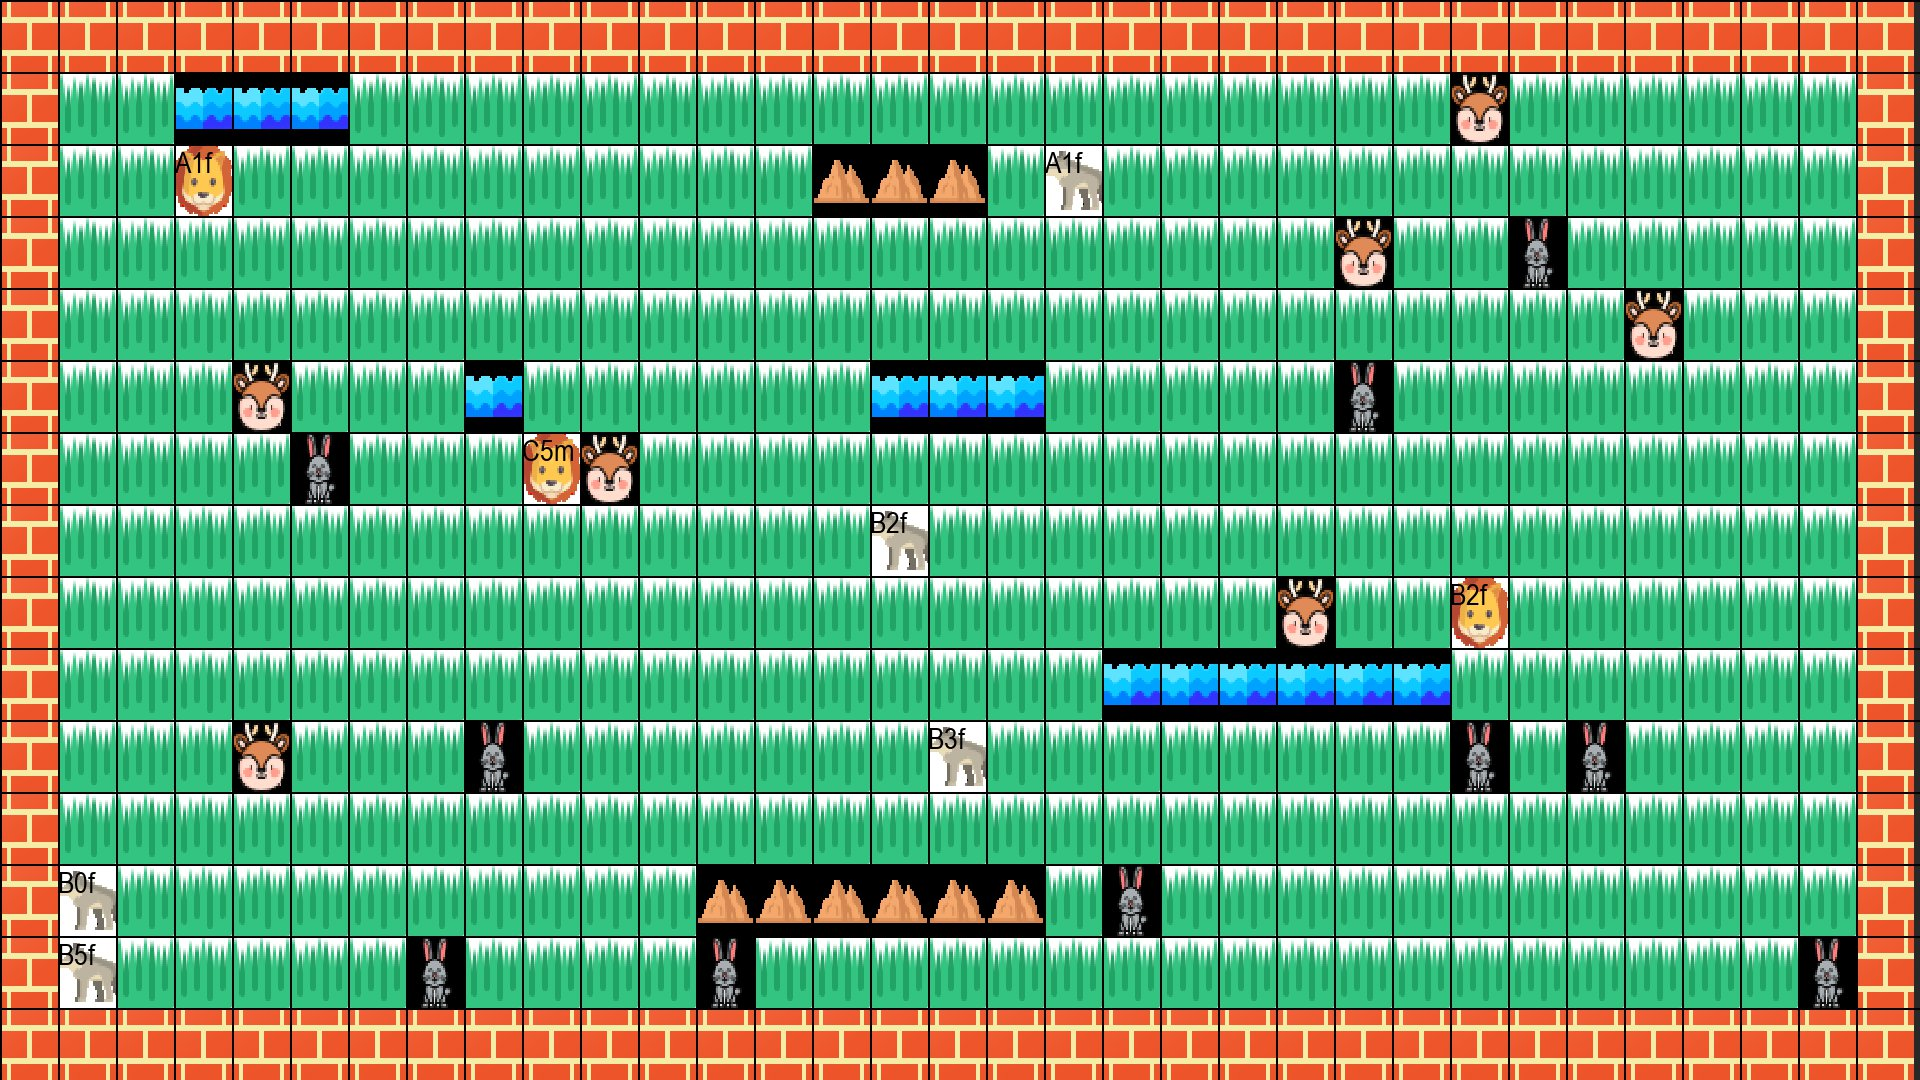
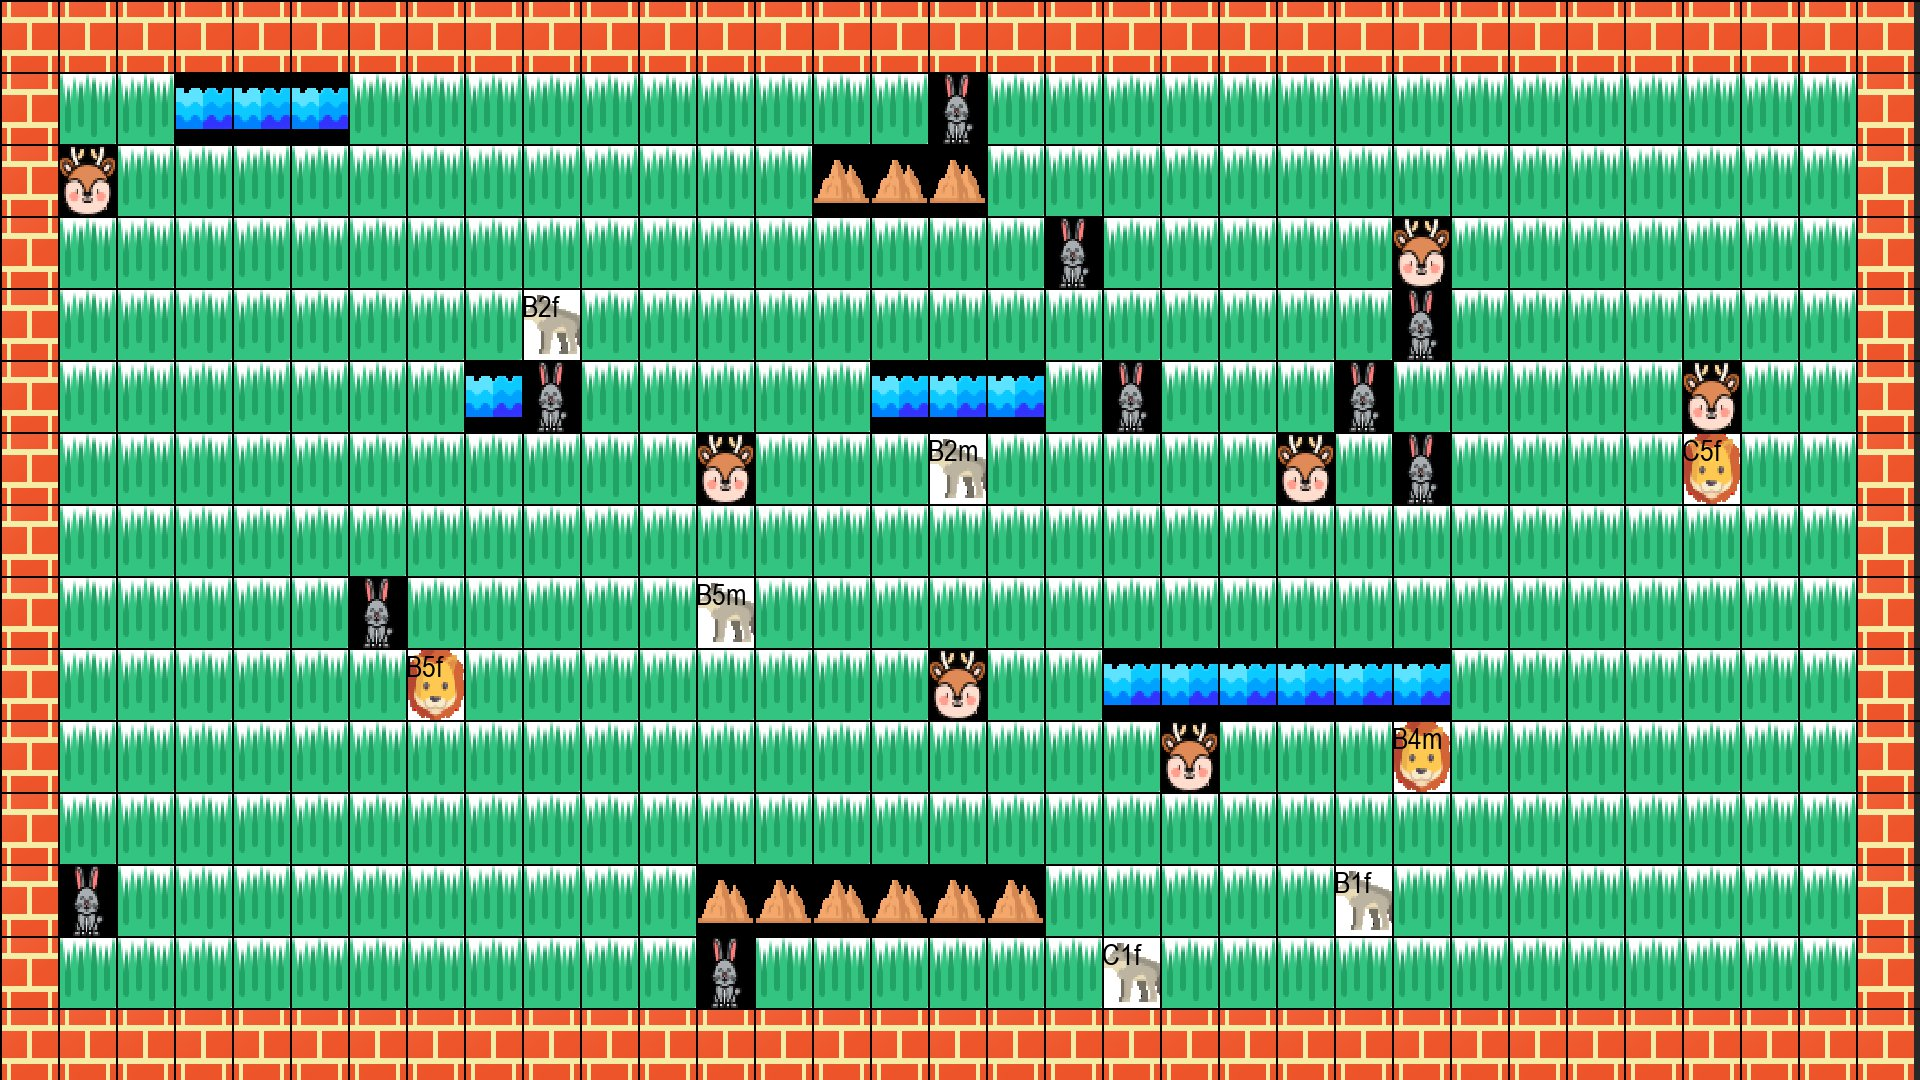
fixed bug for lion

diff --git a/main.py b/main.py
@@ -1,4 +1,5 @@
 from xml.sax.handler import property_declaration_handler
+from numpy import False_
 import pygame 
 import sys
 import random
@@ -163,7 +164,7 @@ class Game:
     def run(self):
         self.playing = True
         while self.playing:
-            self.dt = self.clock.tick(FPS)
+            self.dt = self.clock.tick(FPS/1.2)
             self.events()
             self.update()
             self.draw()
@@ -197,10 +198,14 @@ class Game:
             pos = pygame.math.Vector2(wolf.x, wolf.y)
             wolf_offspring = pygame.sprite.Sprite()
 
-            #always to try to run away from Lions
+            #runaway from lions are close by
             if self.lion_group:
                 predator_lion = min([e for e in self.lion_group], key=lambda e: pos.distance_to(pygame.math.Vector2(e.x, e.y)))
-            run_away(wolf,predator_lion)
+
+                wolf_neighbors = wolf.get_neighbors()
+                for i in wolf_neighbors:
+                    if i == (predator_lion.x,predator_lion.y):
+                        run_away(wolf,predator_lion)
             
             #if wolves are hungry
             if wolf.hunger_limit <=0:
@@ -246,8 +251,12 @@ class Game:
                     partner = min([e for e in self.wolf_group if e is not wolf and e.gender =='m'], key=lambda e: pos.distance_to(pygame.math.Vector2(e.x, e.y)))
             except ValueError:
                 print("Not enough WOLF Female/male partners")
+            
+            lion.breedingCooldown -= 10
+            if lion.breedingCooldown <=0:
+                lion.can_breed = True
 
-            if wolf.reproduction_level >=50 and wolf.can_breed ==True and wolf.mated == False: #Find nearst opposite gender
+            if wolf.reproduction_level <=0 and wolf.can_breed ==True and wolf.mated == False: #Find nearst opposite gender
                 print("Wolf " +str(wolf.name) +" "+ str(wolf.gender) +" is ready to mate")
 
                 chase(wolf,partner)
@@ -257,7 +266,7 @@ class Game:
                     if i == (partner.x,partner.y):
                         randx = random.randint(-1,1); randy= random.randint(-1,1)
                         if not wolf.collide_with_entity(randx,randy):
-                            wolf_offspring = Lion(self,partner.x+randx,partner.y+randy)
+                            wolf_offspring = Wolf(self,partner.x+randx,partner.y+randy)
                             wolf.reproduce()
                             print("Lion " + str(wolf_offspring.name) + " "+str(wolf_offspring.gender) + " was born!")
                             self.wolf_group.add(wolf_offspring)
@@ -289,16 +298,16 @@ class Game:
 
 
         for lion in self.lion_group:
-            #calculate the closest watersource for each lion
+
+            partner = pygame.math.Vector2()
             prey = ()
             prey_rabbit = pygame.math.Vector2()
             prey_deer = pygame.math.Vector2()
             prey_wolf = pygame.math.Vector2()
             lion.thirst_limit -= random.randint(1,2)
             lion.hunger_limit -= random.randint(1,2)
-            lion.reproduction_level += random.randint(1,2)
+            lion.reproduction_level -= random.randint(1,2)
             lion_offspring = pygame.sprite.Sprite()
-            partner = pygame.math.Vector2()
             if lion.thirst_limit <=0: #if lion is thirst then we look for the nearst water.
                 print("Lion " +str(lion.name) + " is Thirsty")
                 look_for_nearst_water(lion)
@@ -332,24 +341,20 @@ class Game:
                         prey.kill()
                         lion.ate()
 
-            lion.breedingCooldown -= 50
-            if lion.breedingCooldown <= 0:
+            lion.breedingCooldown -= 10
+            if lion.breedingCooldown <=0:
                 lion.can_breed = True
-                lion.mated = False
-                lion_offspring.can_breed = True
 
-            partner = pygame.math.Vector2()
-            pos = pygame.math.Vector2(lion.x, lion.y)
-            try:
-                if lion.gender == 'm':
-                    partner = min([e for e in self.lion_group if e is not lion and e.gender =='f'], key=lambda e: pos.distance_to(pygame.math.Vector2(e.x, e.y)))
-                else:
-                    partner = min([e for e in self.lion_group if e is not lion and e.gender =='m'], key=lambda e: pos.distance_to(pygame.math.Vector2(e.x, e.y)))
-            except ValueError:
-                print("Not enough LION Female/male partners")
-
-            if lion.reproduction_level >=50 and lion.can_breed ==True and lion.mated == False: #Find nearst opposite gender
+            if lion.reproduction_level <=0 and lion.can_breed ==True and lion.mated == False: #Find nearst opposite gender
                 print("Lion " +str(lion.name) +" "+ str(lion.gender) +" is ready to mate")
+                pos = pygame.math.Vector2(lion.x, lion.y)
+                try:
+                    if lion.gender == 'm': #locate nearst female 
+                        partner = min([e for e in self.lion_group if e is not lion and e.gender =='f'], key=lambda e: pos.distance_to(pygame.math.Vector2(e.x, e.y)))
+                    else:
+                        partner = min([e for e in self.lion_group if e is not lion and e.gender =='m'], key=lambda e: pos.distance_to(pygame.math.Vector2(e.x, e.y)))
+                except ValueError:
+                    print("Not enough LION Female/male partners")
 
                 chase(lion,partner)
 
@@ -357,12 +362,14 @@ class Game:
                 for i in lion_neighbors:
                     if i == (partner.x,partner.y):
                         randx = random.randint(-1,1); randy= random.randint(-1,1)
-                        if not lion.collide_with_entity(randx,randy):
+                        if lion.collide_with_entity(randx,randy):
+                            continue
+                        else:
                             lion_offspring = Lion(self,partner.x+randx,partner.y+randy)
                             lion.reproduce()
                             print("Lion " + str(lion_offspring.name) + " "+str(lion_offspring.gender) + " was born!")
                             self.lion_group.add(lion_offspring)
-
+                     
                     #if stuck by a water source
                     for water in self.water:
                         if i == water.getlocation():
@@ -373,6 +380,7 @@ class Game:
                         if i == mount.getlocation():
                             x = random.randint(-1,1); y= random.randint(-1,1)
                             lion.move(x,y)
+
             else:# move randomly
                 x = random.randint(-1,1); y= random.randint(-1,1)
                 lion.move(x,y)

diff --git a/sprites.py b/sprites.py
@@ -23,14 +23,11 @@ class Lion(pygame.sprite.Sprite):
         self.rect.y = y*GRIDHEIGHT
         self.hunger_limit = max_hunger_limit
         self.hungry = True 
-        self.can_hunt = False
         self.thirst_limit = max_thirst_limit
         self.closest_water = ()
-        self.thirsty = True
         self.can_breed = False
-        self.mated = True
-        self.breeding = False
-        self.breedingCooldown = 500
+        self.mated = False
+        self.breedingCooldown = 100
         self.reproduction_level = 100
 
     def move(self, dx=0, dy=0):
@@ -81,6 +78,7 @@ class Lion(pygame.sprite.Sprite):
     def ate(self):
         self.hungry = False
         self.hunger_limit = max_hunger_limit
+        print(str(self.name) + " ate")
 
     def drink(self):    
         self.thirst = False
@@ -88,7 +86,7 @@ class Lion(pygame.sprite.Sprite):
 
     def reproduce(self):
         self.mated = True
-        self.reproduction_level == 100
+        self.reproduction_level = 200
         self.can_breed = False
         self.breedingCooldown = 5000
 
@@ -112,13 +110,11 @@ class Wolf(pygame.sprite.Sprite):
         self.text = self.font.render(str(self.name) + str(self.gender),True, BLACK)
         self.image.blit(self.text,[0,0])
         self.hunger_limit = max_hunger_limit
-        self.hungry = True 
-        self.can_hunt = False
+        self.hungry = True
         self.thirst_limit = max_thirst_limit
         self.closest_water = ()
-        self.thirsty = True
         self.can_breed = False
-        self.mated = True
+        self.mated = False
         self.breeding = False
         self.breedingCooldown = 500
         self.reproduction_level = 100

diff --git a/config.py b/config.py
@@ -15,6 +15,7 @@ HEIGHT = 1080
 FPS = 1
 TITLE = "Animal Kindom"
 
+#Game inputs
 max_hunger_limit = 30
 max_thirst_limit = 40
 
